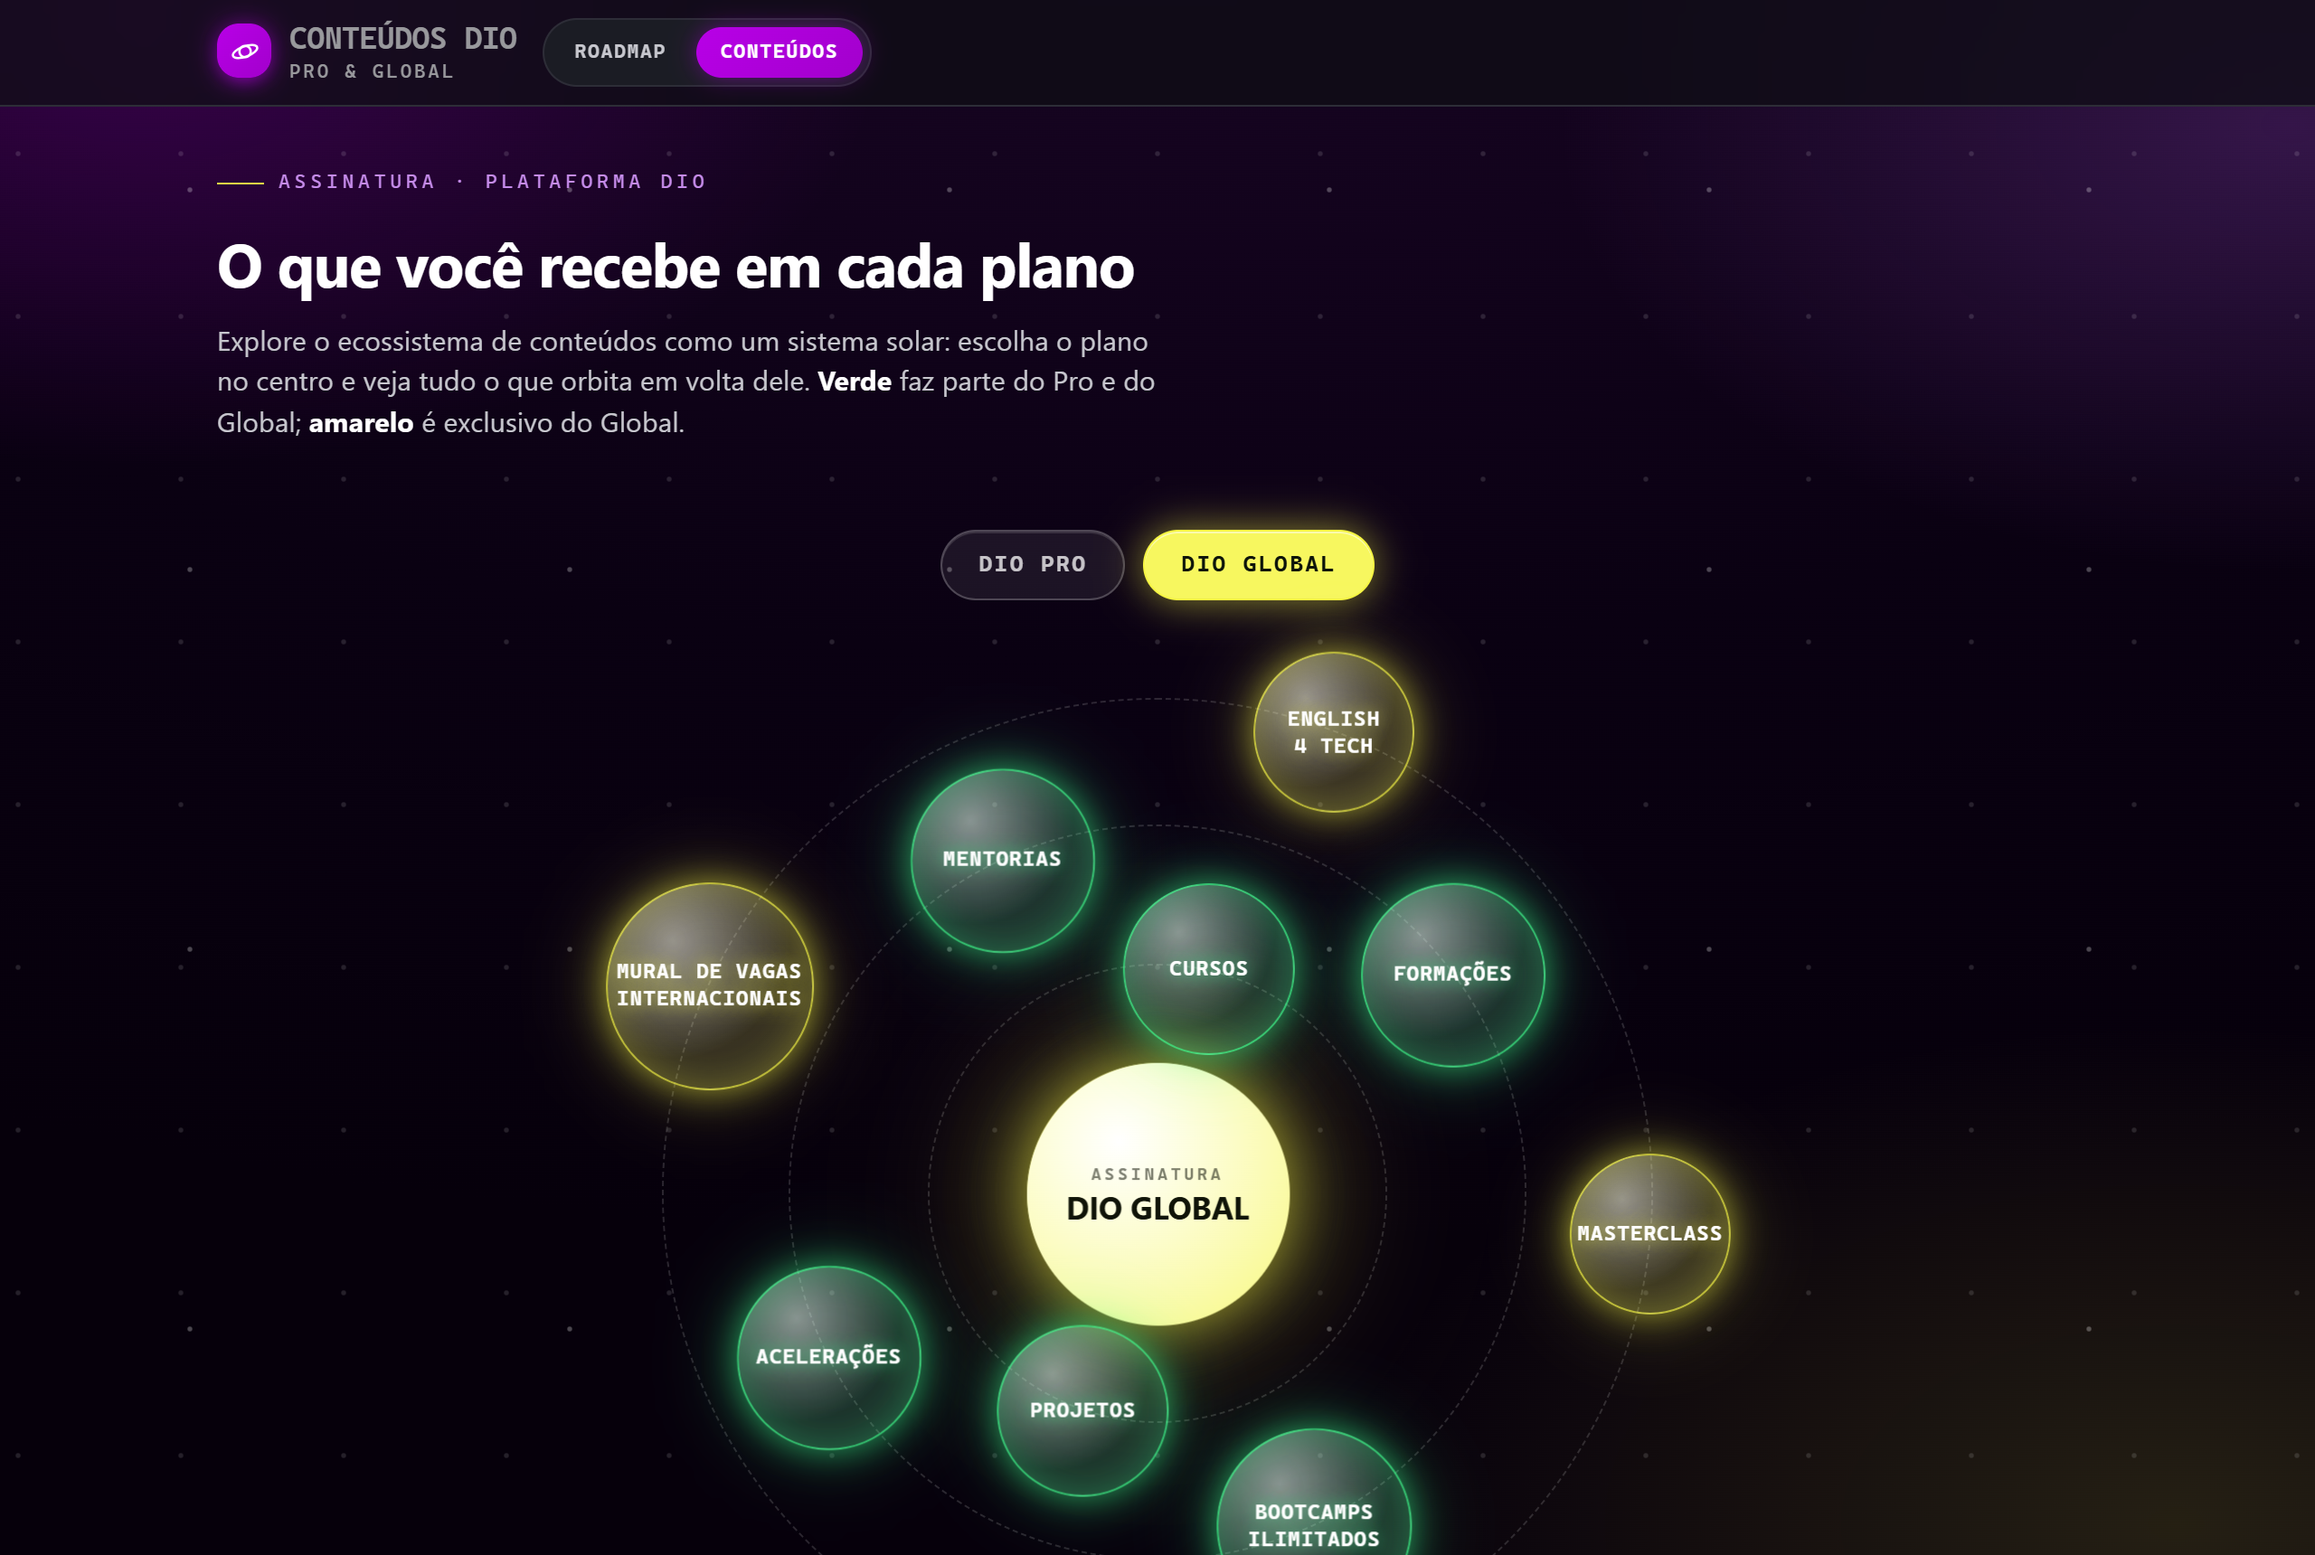
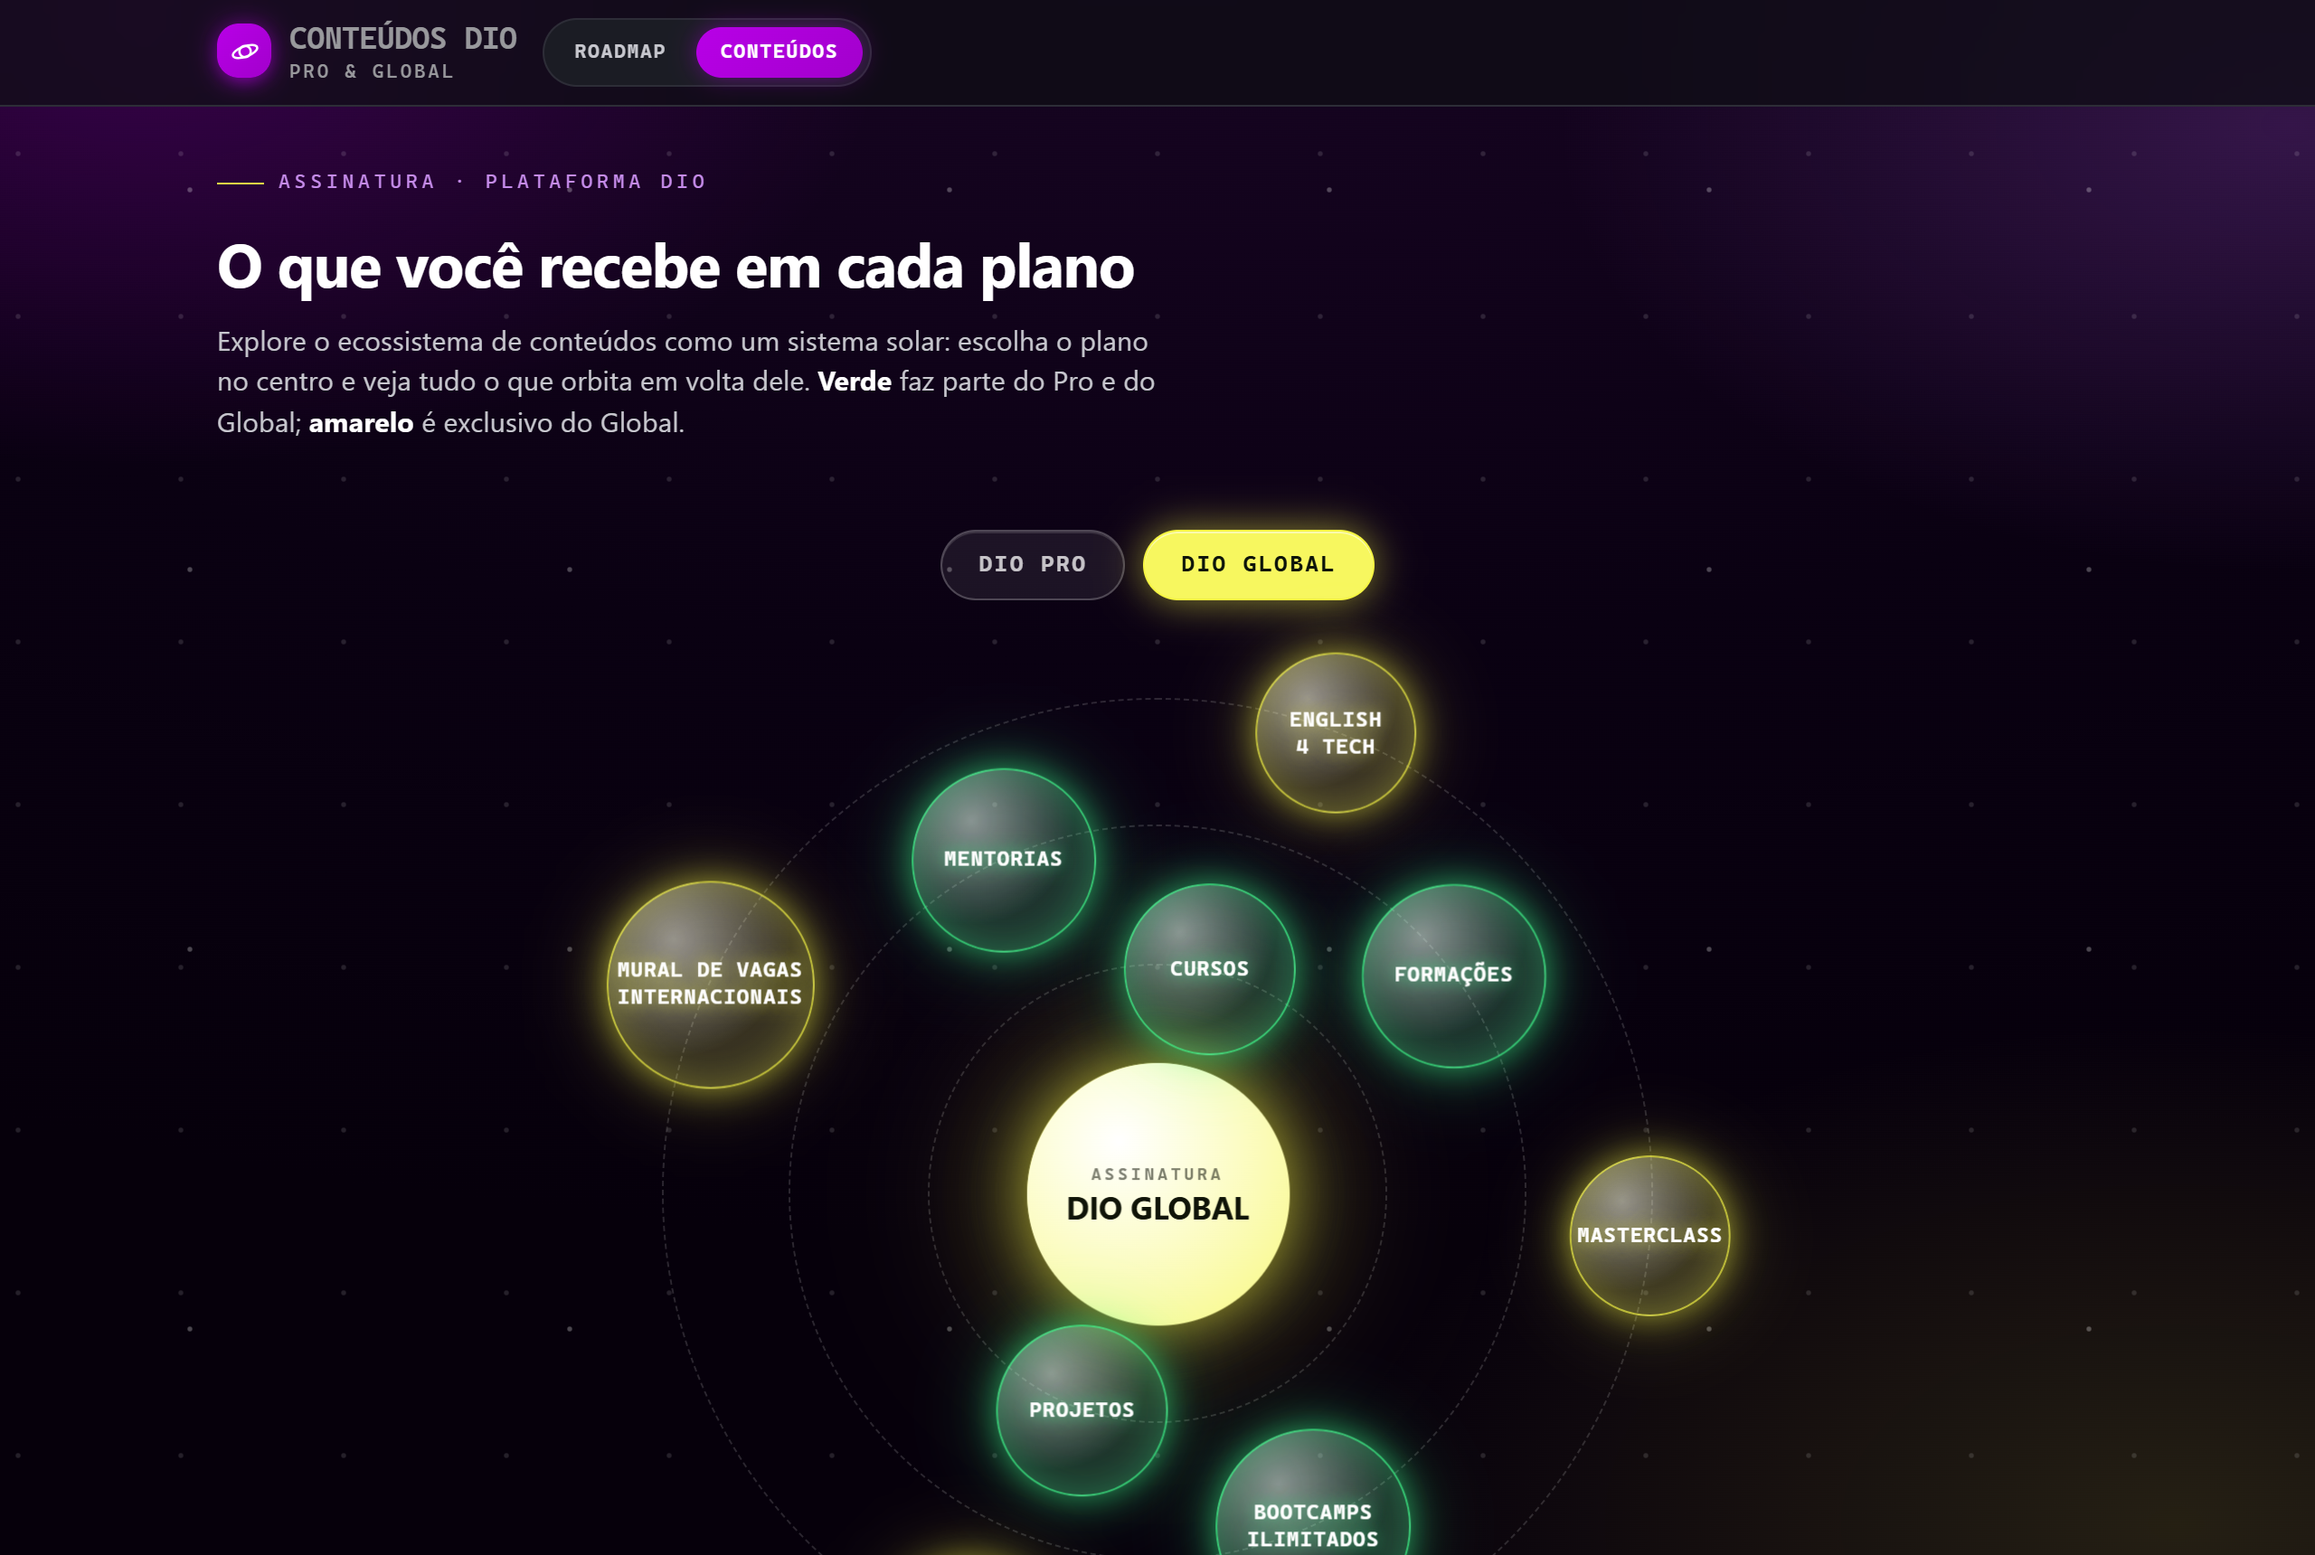
Corrige: Acelerações é exclusivo do DIO Global
- Acelerações vira planeta amarelo (exclusivo Global), sai do DIO Pro
- Reposiciona os anéis: Pro com 5 conteúdos, Global com 9 (4 exclusivos)
- Atualiza prints do README

Claude-Session: https://claude.ai/code/session_01NDBp3KGpNdm6GVd3E32CQM

diff --git a/conteudos-dio.html b/conteudos-dio.html
@@ -306,10 +306,10 @@
     {name:"Projetos",tier:"pro",ring:1,phase:.5,size:'15%',wdur:'17s',wdel:'-8s',desc:"desafios práticos de código para construir seu portfólio."},
     {name:"Formações",tier:"pro",ring:2,phase:.125,size:'16%',wdur:'15s',wdel:'-1s',desc:"trilhas completas por carreira, combinando cursos e projetos."},
     {name:"Bootcamps Ilimitados",tier:"pro",ring:2,phase:.375,size:'17%',wdur:'19s',wdel:'-11s',desc:"acesso sem limites aos bootcamps, com desafios reais de código."},
-    {name:"Acelerações",tier:"pro",ring:2,phase:.625,size:'16%',wdur:'12s',wdel:'-5s',desc:"programas intensivos para acelerar sua evolução em temas específicos."},
     {name:"Mentorias",tier:"pro",ring:2,phase:.875,size:'16%',wdur:'16s',wdel:'-9s',desc:"mentorias ao vivo com especialistas do mercado, com replay disponível."},
     {name:"English 4 Tech",tier:"global",ring:3,phase:0,size:'14%',wdur:'14s',wdel:'-6s',desc:"inglês focado em tecnologia para a carreira internacional."},
     {name:"MasterClass",tier:"global",ring:3,phase:.25,size:'14%',wdur:'18s',wdel:'-2s',desc:"aulas magnas com grandes nomes da tecnologia."},
+    {name:"Acelerações",tier:"global",ring:3,phase:.5,size:'16%',wdur:'12s',wdel:'-5s',desc:"programas intensivos para acelerar sua evolução em temas específicos."},
     {name:"Mural de Vagas Internacionais",tier:"global",ring:3,phase:.75,size:'18%',wdur:'21s',wdel:'-13s',desc:"oportunidades em empresas do mundo todo, em um só lugar."}
   ];
 
@@ -336,8 +336,8 @@
     btnGlobal.setAttribute('aria-pressed',String(m==='global'));
     sunLabel.textContent=m==='pro'?'DIO PRO':'DIO GLOBAL';
     caption.innerHTML=m==='pro'
-      ?'<b>DIO Pro</b> — 6 conteúdos orbitando. Clique em um planeta para ver o detalhe.'
-      :'<b>DIO Global</b> — 9 conteúdos, sendo 3 exclusivos em amarelo. Clique em um planeta para ver o detalhe.';
+      ?'<b>DIO Pro</b> — 5 conteúdos orbitando. Clique em um planeta para ver o detalhe.'
+      :'<b>DIO Global</b> — 9 conteúdos, sendo 4 exclusivos em amarelo. Clique em um planeta para ver o detalhe.';
   }
   btnPro.addEventListener('click',function(){setMode('pro')});
   btnGlobal.addEventListener('click',function(){setMode('global')});
